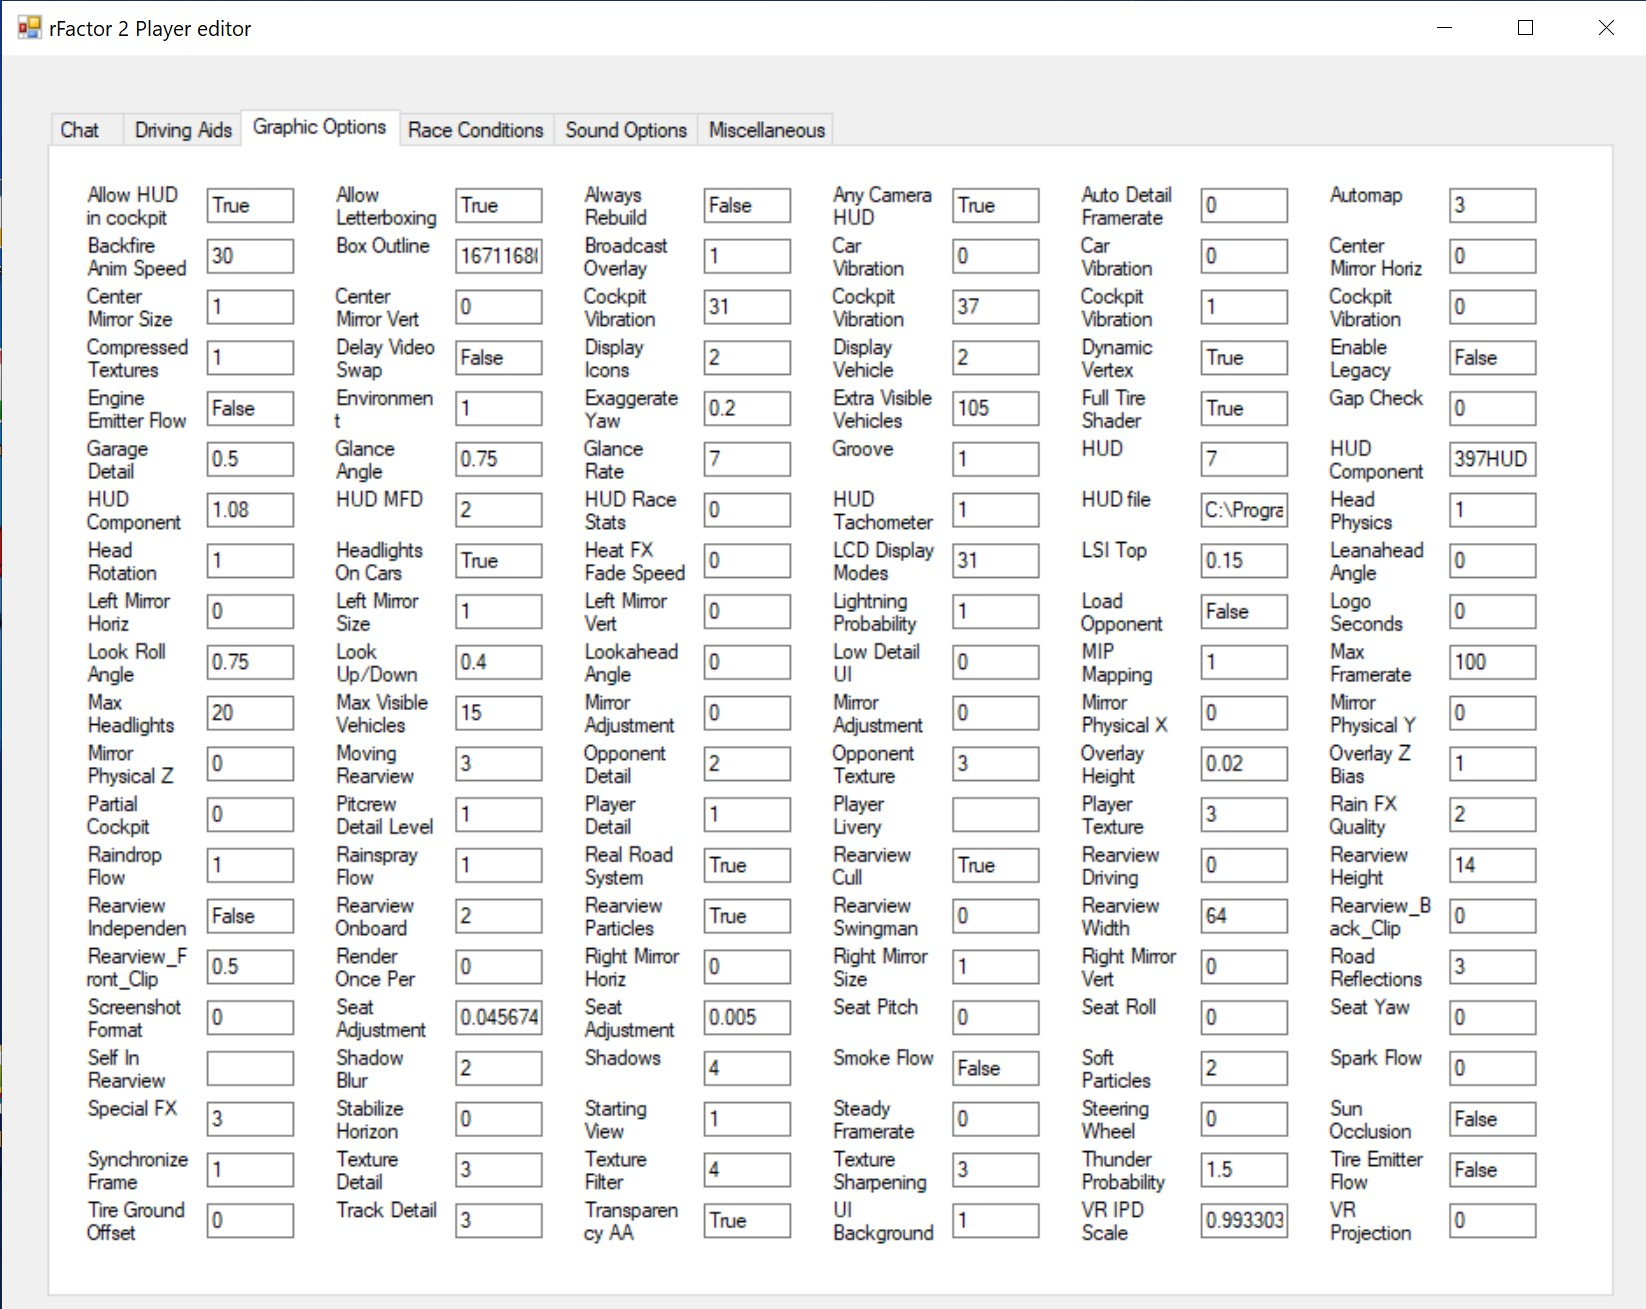
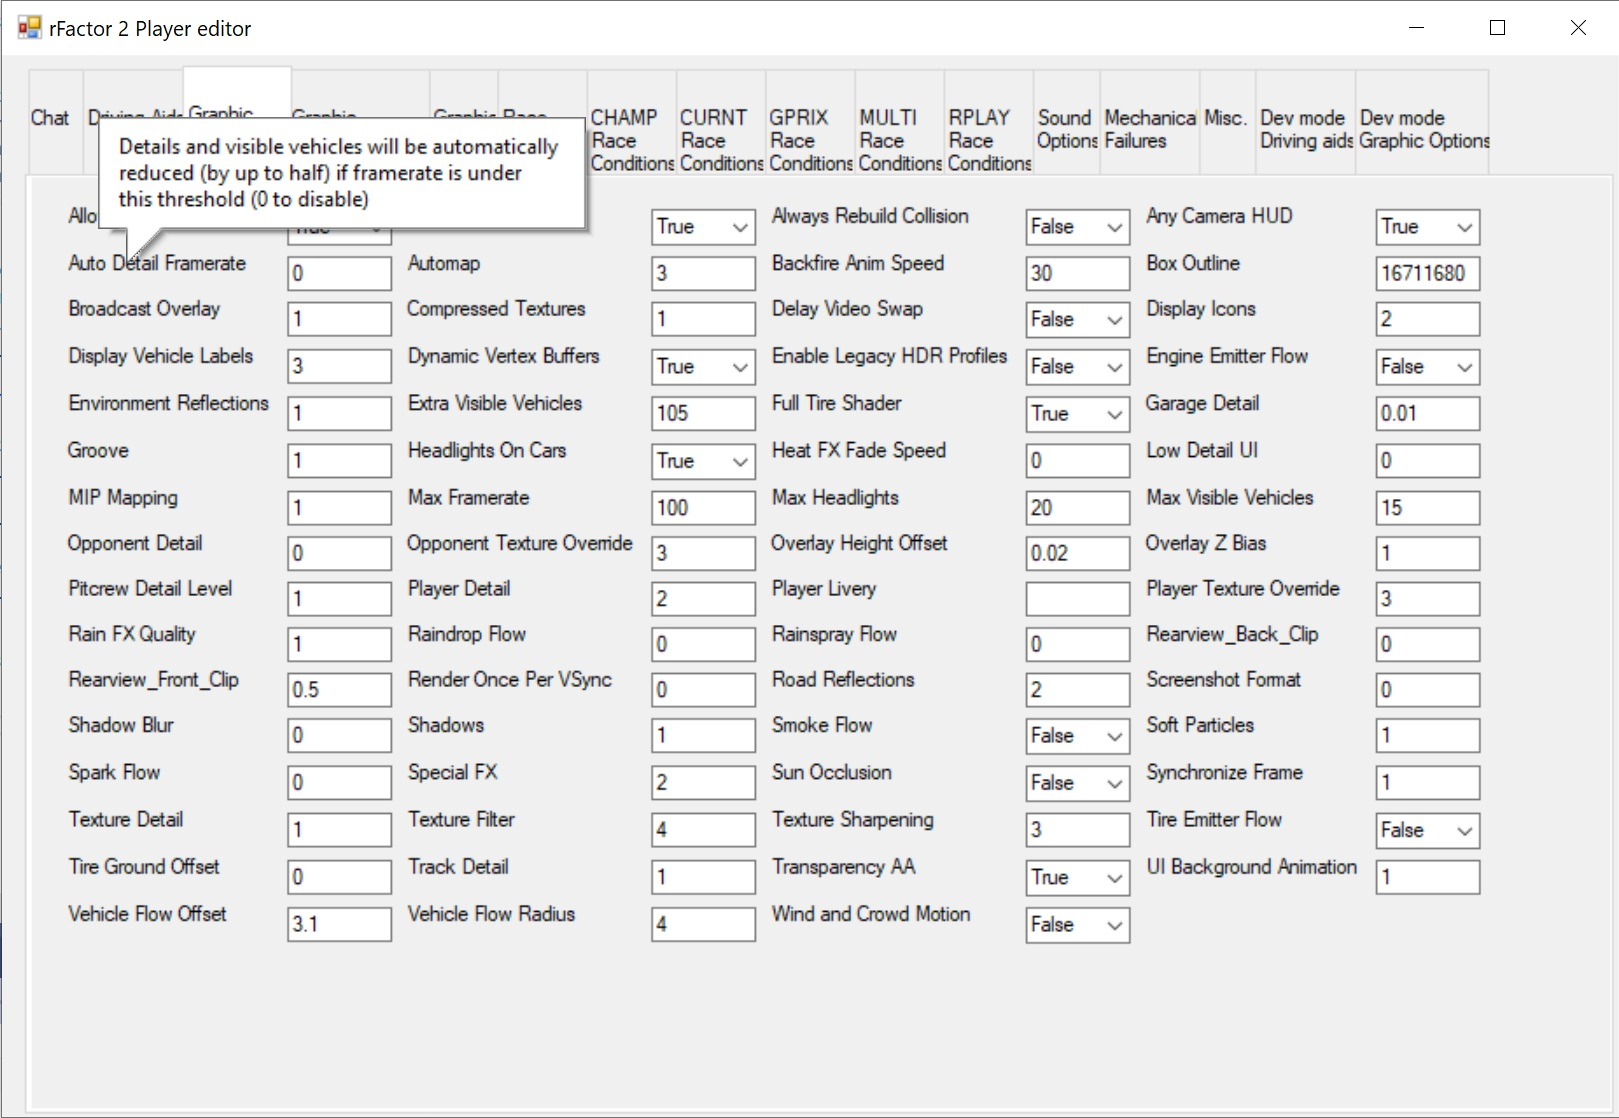
Made a start on copying all the entries to tabDictCopy when something happens. Also wrapped tooltips at 50 chars

Changed region(s): [[0.0, 0.0912, 0.9265, 0.9732], [0.0, 0.0, 0.1544, 0.0608], [0.9574, 0.0, 0.9883, 0.0304]]

diff --git a/Form1.cs b/Form1.cs
@@ -6,6 +6,7 @@ using System.Windows.Forms;
 namespace rF2_player_editor
 {
     using dict = System.Collections.Generic.Dictionary<string, dynamic>;
+
     public partial class Form1 : Form
     {
         private const int numberOfEntries = 1200;
@@ -17,6 +18,7 @@ namespace rF2_player_editor
         private readonly ToolTip[] toolTips = new ToolTip[numberOfEntries];
         private readonly ComboBox[] comboBoxes = new ComboBox[numberOfEntries];
         private int entryCount = 0;
+        public dict tabDictCopy;
 
 
         private void Tab(dict tabData,
@@ -26,9 +28,10 @@ namespace rF2_player_editor
             int width)
         {
             // Fill in tab 'section' with data from 'tabData'
-            int entries = 0;
+            int entriesInThisTab = 0;
             string lastval = null;
 
+            panel.ColumnStyles.Add(new ColumnStyle(SizeType.Percent, 50));
             tabPage.Text = section;
 
             foreach (var entry in tabData[tabData.First().Key].ToObject<dict>())
@@ -73,13 +76,16 @@ namespace rF2_player_editor
                         panel.Controls.Add(this.textBoxes[this.entryCount]);
                     }
                     this.entryCount++;
-                    entries++;
+                    entriesInThisTab++;
                 }
                 else
                 {   // JSON keys ending in # are comments, use them for tooltips
                     string tip = entry.Value;
+                    if (tip.Length > 45) // If more than 45 chars wrap every 40
+                        tip = TextUtils.WrapText(tip, 40);
                     this.toolTips[this.entryCount - 1] = new ToolTip();
                     this.toolTips[this.entryCount - 1].SetToolTip(this.labels[this.entryCount - 1], tip);
+                    this.toolTips[this.entryCount - 1].IsBalloon = true;
                     if (lastval == "True" || lastval == "False")
                     {
                         // this.keyCount-1 is not necessarily correct, should find the matching key
@@ -94,7 +100,7 @@ namespace rF2_player_editor
             }
 
             // Set the number of columns of label/entry pairs
-            panel.ColumnCount = ((entries / maxRows) + 1) * 2;
+            panel.ColumnCount = ((entriesInThisTab / maxRows) + 1) * 2;
         }
         /// <summary>
         /// The main (only) form
@@ -106,6 +112,8 @@ namespace rF2_player_editor
             this.tabPages = new TabPage[tabCount];
             int width;
 
+            this.tabDictCopy = tabDict;
+
             InitializeComponent();
 
             for (int u = 0; u < tabCount; u++)
@@ -115,7 +123,6 @@ namespace rF2_player_editor
                     //this.panels[u].Size = new System.Drawing.Size(228, 200);
                     AutoSize = true
                 };
-                this.panels[u].ColumnStyles.Add(new ColumnStyle(SizeType.Percent, 50));
                 this.tabPages[u] = new TabPage();
                 this.tabPages[u].Controls.Add(this.panels[u]);
             }
@@ -134,14 +141,51 @@ namespace rF2_player_editor
                     this.panels[panelCount],
                     width);
 
-                tabControl1.Controls.Add(this.tabPages[panelCount]);
+                TabControl1.Controls.Add(this.tabPages[panelCount]);
                 panels[panelCount].Padding = new System.Windows.Forms.Padding(15, 15, 15, 15); //Padding round the panel
                 panelCount++;
             }
-            tabControl1.Height = 12000 / maxRows;
-            tabControl1.ItemSize = new Size(50, 60);    // Set the size of the tab labels
-            tabControl1.Padding = new System.Drawing.Point(1, 0); //Padding round the tab labels
+            TabControl1.Height = 12000 / maxRows;
+            TabControl1.ItemSize = new Size(50, 60);    // Set the size of the tab labels
+            TabControl1.Padding = new System.Drawing.Point(1, 0); //Padding round the tab labels
             //Form1.Size = Point(100, 200);
+
+            TabControl1.SelectedIndexChanged += new EventHandler(TabControl1_SelectedIndexChanged);
+        }
+        /// <summary>
+        /// Different tab selected, copy all the entries to tabDictCopy
+        /// UNFINISHED.   Well, barely started.
+        /// Idea is that tabDictCopy will be copied to Player.JSON when user
+        /// clicks Save button.
+        /// </summary>
+        private void TabControl1_SelectedIndexChanged(object sender, EventArgs e)
+        {
+            int tabCount = tabDictCopy.Count;
+
+            int panelCount = 0;
+            foreach (var tabData in tabDictCopy) // HACKERY!!!
+            {
+                dict entriesThing = (dict)tabData.Value; //Value.Values;
+                var section = entriesThing.Keys;
+                foreach (var entries in entriesThing.Values)
+                    foreach (var entry in entries)
+                    {
+                        string name = entry.Name;
+                        string val;
+
+                        if (name.Last() != '#')
+                        { // It's an item, not a comment
+                            if (entry.Value is string)
+                                val = entry.Value;
+                            else
+                                val = entry.Value.ToString();
+                            //this.panels
+                            //this.tabPages
+                        }
+                    }
+                panelCount++;
+            }
+
         }
     }
 }

diff --git a/Form1.Designer.cs b/Form1.Designer.cs
@@ -30,25 +30,27 @@
         {
             this.components = new System.ComponentModel.Container();
             this.toolTip1 = new System.Windows.Forms.ToolTip(this.components);
-            this.tabControl1 = new System.Windows.Forms.TabControl();
+            this.TabControl1 = new System.Windows.Forms.TabControl();
             this.SuspendLayout();
             // 
-            // tabControl1
+            // TabControl1
             // 
-            this.tabControl1.Location = new System.Drawing.Point(25, 12);
-            this.tabControl1.Name = "tabControl1";
-            this.tabControl1.SelectedIndex = 0;
-            this.tabControl1.Size = new System.Drawing.Size(1668, 1299);
-            this.tabControl1.TabIndex = 0;
+            this.TabControl1.Location = new System.Drawing.Point(20, 10);
+            this.TabControl1.Margin = new System.Windows.Forms.Padding(2, 2, 2, 2);
+            this.TabControl1.Name = "TabControl1";
+            this.TabControl1.SelectedIndex = 0;
+            this.TabControl1.Size = new System.Drawing.Size(1365, 1082);
+            this.TabControl1.TabIndex = 0;
             // 
             // Form1
             // 
-            this.AutoScaleDimensions = new System.Drawing.SizeF(11F, 24F);
+            this.AutoScaleDimensions = new System.Drawing.SizeF(9F, 20F);
             this.AutoScaleMode = System.Windows.Forms.AutoScaleMode.Font;
             this.AutoSize = true;
             this.AutoSizeMode = System.Windows.Forms.AutoSizeMode.GrowAndShrink;
-            this.ClientSize = new System.Drawing.Size(1724, 1323);
-            this.Controls.Add(this.tabControl1);
+            this.ClientSize = new System.Drawing.Size(1411, 1102);
+            this.Controls.Add(this.TabControl1);
+            this.Margin = new System.Windows.Forms.Padding(2, 2, 2, 2);
             this.Name = "Form1";
             this.Text = "rFactor 2 Player editor";
             this.ResumeLayout(false);
@@ -57,7 +59,7 @@
 
         #endregion
         private System.Windows.Forms.ToolTip toolTip1;
-        private System.Windows.Forms.TabControl tabControl1;
+        private System.Windows.Forms.TabControl TabControl1;
     }
 }
 

diff --git a/json.cs b/json.cs
@@ -1,5 +1,6 @@
 using System;
 using System.IO;
+using System.Text;
 
 using Newtonsoft.Json;
 
@@ -60,7 +61,8 @@ namespace rF2_player_editor
                 string name = entry.Key;
                 foreach (var _key in to_dict[name])
                 {
-                    if (from_dict[name][_key.Name] != null) // If from_dict has the key
+                    if (!_key.Name.EndsWith("#") &&  // If it's not a comment
+                        from_dict[name][_key.Name] != null) // and from_dict has the key
                     {
                         to_dict[name][_key.Name] = from_dict[name][_key.Name];
                     }
@@ -103,6 +105,37 @@ namespace rF2_player_editor
                 dict tabDict = from_dict[entry.Key];
                 CopyDictValues(ref tabDict, ref to_dict);
             }
+        }
+    }
+    /// <summary>
+    /// Class to handle text! Nothing to do with JSON but there's only one method...
+    /// </summary>
+    public static class TextUtils
+    {
+        /// <summary>
+        /// Put \n into 'text' if it goes over 'width' chars
+        /// </summary>
+        /// <param name="text">String to be wrapped</param>
+        /// <param name="width">Max width of resulting text</param>
+        public static string WrapText(string text, int width)
+        {
+            string[] originalWords = text.Split(new string[] { " " },
+                StringSplitOptions.None);
+            StringBuilder result = new StringBuilder();
+            int lineWidth = 0;
+
+            foreach (var word in originalWords)
+            {
+                result.Append(word + " ");
+                lineWidth += word.Length + 1;
+
+                if (lineWidth > width)
+                {
+                    result.Append("\n");
+                    lineWidth = 0;
+                }
+            }
+            return result.ToString();
         }
     }
 }

diff --git a/tests/JsonFilesTests.cs b/tests/JsonFilesTests.cs
@@ -80,4 +80,16 @@ namespace rF2_player_editor.Tests
             Assert.AreEqual("Slowing to pit", res);
         }
     }
+    [TestClass()]
+    public class StringTests
+    {
+        [TestMethod()]
+        public void WrapTest()
+        {
+            string input = "Details and visible vehicles will be automatically reduced (by up to half) if framerate is under this threshold (0 to disable)";
+            string wrapped = TextUtils.WrapText(input, 40);
+            Assert.AreEqual("Details and visible vehicles will be automatically \nreduced (by up to half) if framerate is under \nthis threshold (0 to disable) ", wrapped);
+        }
+    }
+
 }
